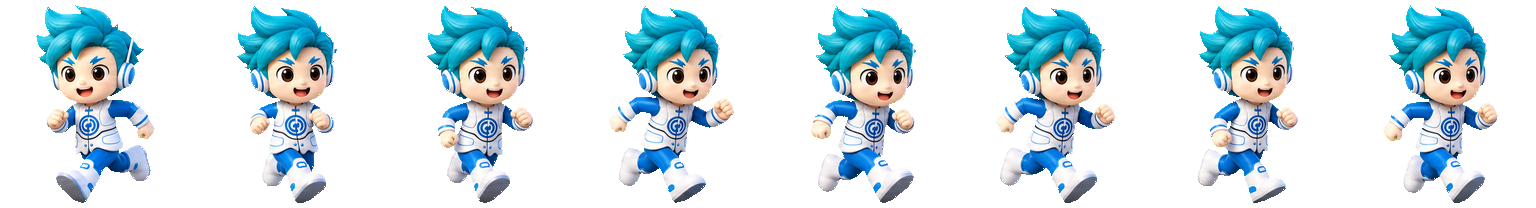
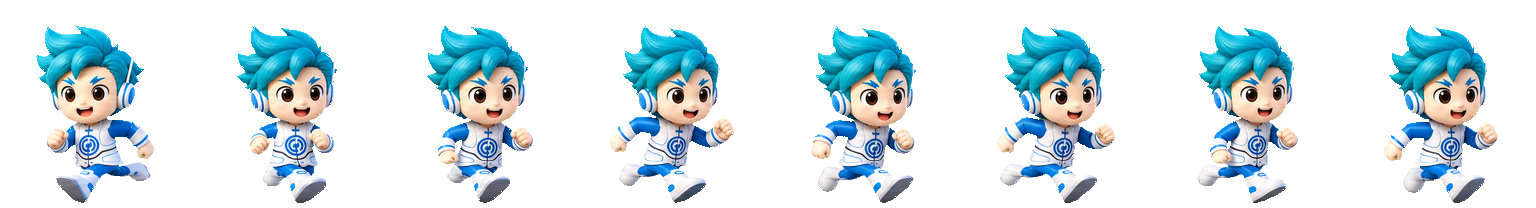
fix(pet): 调整小君比例与金发工作动作，统一选中和提示交互
将内置 cutej 的腿部适度缩短，使站立高度降低约百分之十，同时保留头部细节。重做努力工作动画，使用向上竖起的金发、敲键盘动作和少量金色线条，移除大片背景光晕。宠物及皮肤选中框统一读取强调色，描述提示仅在悬停名字时出现。补充手工回归项，相关 74 项测试和 renderer 类型检查通过；output 资源包与无关修改未纳入提交。

diff --git a/src/renderer/appearance/settings.css b/src/renderer/appearance/settings.css
@@ -7,12 +7,12 @@
 .desktop-skin-heading > span, .desktop-background-copy > span { color: var(--ink-soft); font-size: 12px; line-height: 1.6; }
 .desktop-skin-options { display: grid; grid-template-columns: repeat(4, minmax(0, 1fr)); gap: 12px; margin: 14px 0 20px; }
 .desktop-skin-option { appearance: none; min-width: 0; padding: 5px; border: 1px solid var(--control-border); border-radius: var(--control-radius-lg); background: var(--control-button-bg); color: var(--ink); text-align: left; cursor: pointer; }
-.desktop-skin-option[aria-pressed="true"] { border-color: var(--control-primary-bg); box-shadow: 0 0 0 1px var(--control-primary-bg); }
+.desktop-skin-option[aria-pressed="true"] { border-color: var(--accent); box-shadow: 0 0 0 1px var(--accent); }
 .desktop-skin-option:hover:not(:disabled) { background: var(--control-hover-bg); }
-.desktop-skin-option:focus-visible { outline: 2px solid var(--control-primary-bg); outline-offset: 4px; }
+.desktop-skin-option:focus-visible { outline: 2px solid var(--accent); outline-offset: 4px; }
 .desktop-skin-option:disabled { cursor: default; opacity: var(--control-disabled-opacity); }
 .desktop-skin-option-label { display: flex; justify-content: space-between; gap: 4px; padding: 8px 6px 4px; font-size: 12px; }
-.desktop-skin-option-label > span { color: var(--control-primary-bg); }
+.desktop-skin-option-label > span { color: var(--accent); }
 .desktop-skin-sample { --control-primary-bg: var(--accent); position: relative; display: flex; aspect-ratio: 1.8; overflow: hidden; border-radius: var(--control-radius); background-color: var(--bg-base); background-size: cover; background-position: center; }
 /* Default preview must not inherit the currently selected skin's colors. */
 .desktop-skin-sample[data-sample-skin="default"] { --bg-base: #f5f7fb; --surface: #fff; --ink-muted: #b5bdcb; --control-primary-bg: #2663eb; }
@@ -54,7 +54,7 @@
 }
 .desktop-installed-skin { position: relative; min-width: 0; display: flex; }
 .desktop-installed-skin .desktop-skin-option { width: 100%; box-sizing: border-box; }
-.desktop-installed-skin .desktop-skin-option[aria-pressed="true"] { border-color: var(--control-primary-bg); box-shadow: inset 0 0 0 1px var(--control-primary-bg), 0 0 0 1px var(--control-primary-bg); }
+.desktop-installed-skin .desktop-skin-option[aria-pressed="true"] { border-color: var(--accent); box-shadow: inset 0 0 0 1px var(--accent), 0 0 0 1px var(--accent); }
 .desktop-installed-skin .desktop-skin-remove { position: absolute; right: 9px; bottom: 8px; width: 24px; height: 24px; color: var(--ink-soft); opacity: 0; pointer-events: none; }
 .desktop-installed-skin:hover .desktop-skin-remove,
 .desktop-installed-skin:focus-within .desktop-skin-remove { opacity: 1; pointer-events: auto; }

diff --git a/src/renderer/pages/settings/SettingsPage.tsx b/src/renderer/pages/settings/SettingsPage.tsx
@@ -4779,19 +4779,17 @@ export function SettingsPage({
                           aria-label={appearanceLabel}
                           aria-pressed={selected}
                           aria-busy={pending}
-                          title={appearanceDescription}
                           disabled={Boolean(desktopPetAppearancePending)}
                           onClick={() => void handleSelectDesktopPetAppearance(appearance.id)}
                         >
+                          <span className="desktop-pet-appearance-copy">
+                            <strong title={appearanceDescription}>{appearanceLabel}</strong>
+                          </span>
                         </button>
                         <span className="desktop-pet-appearance-preview" aria-hidden="true">
                           <PetAppearancePreview appearance={appearance} hovered={hoveredPetAppearanceId === appearance.id} />
                         </span>
                         <div className="pet-appearance-caption">
-                        <span className="desktop-pet-appearance-copy">
-                          <strong>{appearanceLabel}</strong>
-                          <small>{appearanceDescription}</small>
-                        </span>
                         {appearance.id.startsWith("user:") && (
                           <Popconfirm
                             title={t("settings.desktopPet.remove.confirm")}

diff --git a/src/renderer/pages/settings/SettingsPage.css b/src/renderer/pages/settings/SettingsPage.css
@@ -3730,19 +3730,23 @@
   box-shadow: none;
 }
 .settings-page .pet-appearance-pick {
+  display: flex;
+  align-items: flex-end;
+  justify-content: center;
+  font: inherit;
   position: absolute;
   inset: 0;
   z-index: 1;
   width: 100%;
   height: 100%;
-  padding: 0;
+  padding: 0 30px 8px;
   border: 0;
   border-radius: 12px;
   background: transparent;
   cursor: pointer;
 }
 .settings-page .pet-appearance-card.is-current .pet-appearance-pick {
-  box-shadow: inset 0 0 0 2px var(--control-primary-bg);
+  box-shadow: inset 0 0 0 2px var(--accent);
 }
 .settings-page .pet-appearance-caption {
   display: flex;
@@ -3754,7 +3758,7 @@
   padding: 4px 30px 8px;
 }
 .settings-page .pet-appearance-pick:focus-visible {
-  outline: 2px solid var(--control-primary-bg);
+  outline: 2px solid var(--accent);
   outline-offset: 2px;
 }
 .settings-page .pet-appearance-pick:disabled { cursor: wait; }

diff --git a/qa/manual-regression.md b/qa/manual-regression.md
@@ -1164,3 +1164,5 @@
 - 现有 Identity Center capability 保持原配置加载行为，启动与本地认证正常。
 - 内置 zenmi 念经动作各帧人物高度与脚底稳定；cutej 努力工作保持人物比例，金光仅存在于专属资源的金发工作帧中，不出现半透明人物重影。
 - 独立桌宠 idle：无需悬停即以约 0.6 秒播放一轮、首帧停歇 3 秒的节奏运行；切换到任务、拖动或专属动作时退出该节奏，各动作保留自身时长，回到 idle 后恢复快速眨眼与停歇。
+
+- 内置 cutej 比例与专属动作：站立人物总高度较原版减少约 10%，主要缩短腿部，头部和靴子大小保持；逐个检查九种基础状态的腿部衔接。手动播放“努力工作”，确认敲键盘时金发向上竖起，仅保留肩侧少量金色线条与亮点，不出现大片金色光晕，发梢不裁切，约 2.64 秒后回到相同待机首帧；切出专属动作后没有残留金光。macOS / Windows 均检查透明边缘、人物点击与拖动。
